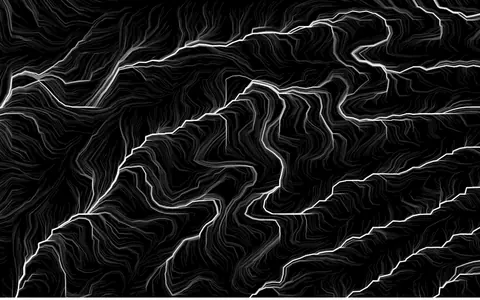
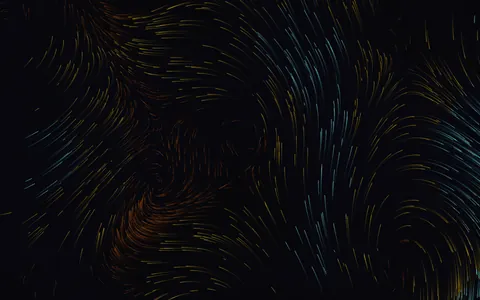
Rewrite the Experimental Math sketch from scratch
script.js was a reworked copy of thatsKevinJain/flowfields, which has
no licence. The new script keeps only the idea of particles tracing a
mathematical vector field and the MIT helpers microcan and vec-la.

It cycles through five fields of its own (sine/cosine interference, a
polar rose, orbiting point vortices, the curl of a wave stream function
and a swirled Clifford map), every 24 seconds or on a tap, click, Space
or arrow key. The field's unit square is fitted to the shorter side so
an upright phone sees the whole pattern, the canvas uses ArtEmbed.dpr()
and is rebuilt on resize, drawing stops while the tab is hidden, and
reduced motion gets a still. A small label names the current field
outside embed mode.

captured.png and the hub thumbnails are new screenshots of this version.

diff --git a/Art_Lab/Experimental_math/script.js b/Art_Lab/Experimental_math/script.js
@@ -1,0 +1,315 @@
+/**
+ * Experimental Math
+ *
+ * Particles follow a mathematical vector field and leave fading trails. The
+ * page cycles through five fields, each a small formula in x, y and time t:
+ *
+ *   Interference   two families of sine and cosine waves crossing
+ *   Rose           headings that turn k times faster than the polar angle
+ *   Vortex dance   five point vortices orbiting the centre (Biot-Savart)
+ *   Curl waves     the curl of a wave-shaped stream function (no divergence)
+ *   Clifford flow  the displacement of a Clifford attractor map, swirled
+ *
+ * The field's unit square is fitted to the shorter side of the window, so an
+ * upright phone sees the whole pattern and wide screens see it extend
+ * sideways. The canvas is drawn at the device pixel ratio (ArtEmbed.dpr(),
+ * capped inside an Art Lab card) and is rebuilt on resize.
+ *
+ * Tap, click, Space or the arrow keys change the field; otherwise it moves
+ * on by itself every 24 seconds. With reduced motion a still is drawn and
+ * the field only changes on request.
+ *
+ * Helpers: microcan (canvas) and vec-la (vectors) by Francis Stokes, MIT.
+ */
+(function () {
+  'use strict';
+
+  var embed = window.ArtEmbed || { on: false, dpr: function () { return window.devicePixelRatio || 1; } };
+  var reduceMotion = window.matchMedia && matchMedia('(prefers-reduced-motion: reduce)').matches;
+  var mc = window.microcan;
+  var V = window.vec;
+
+  var canvas = document.getElementById('main');
+  var ctx = canvas.getContext('2d', { alpha: false });
+  var label = document.getElementById('field-name');
+
+  var W = 0;
+  var H = 0;
+  var dpr = 1;
+  var cx = 0;
+  var cy = 0;
+  var unit = 1; // pixels per field unit
+
+  var BG = [9, 9, 11];
+  // slow, middle and fast particles
+  var INK = ['#b45309', '#facc15', '#7df9ff'];
+
+  var FIELD_SECONDS = 24;
+
+  // ---------------------------------------------------------------- fields
+  // Each field writes the velocity at (x, y) into out[0], out[1]. An optional
+  // `gain` lifts a field with small speeds into the same colour range.
+
+  var vortices = [];
+
+  var fields = [
+    {
+      name: 'Interference',
+      formula: 'v = ( sin 3y + cos(2.3 r − t),  cos 3x − sin(2.3 r + t) )',
+      fn: function (x, y, t, out) {
+        var r = Math.sqrt(x * x + y * y);
+        out[0] = Math.sin(3 * y + t * 0.3) + Math.cos(2.3 * r - t * 0.7);
+        out[1] = Math.cos(3 * x - t * 0.3) - Math.sin(2.3 * r + t * 0.5);
+      },
+    },
+    {
+      name: 'Rose',
+      formula: 'heading = 3·θ + sin(4r − t)',
+      fn: function (x, y, t, out) {
+        var r = Math.sqrt(x * x + y * y);
+        var th = Math.atan2(y, x);
+        var a = 3 * th + Math.sin(4 * r - t * 0.6) * 1.4;
+        var m = 0.4 + Math.abs(Math.sin(2.5 * r - t * 0.25));
+        out[0] = Math.cos(a) * m;
+        out[1] = Math.sin(a) * m;
+      },
+    },
+    {
+      name: 'Vortex dance',
+      gain: 2.6,
+      formula: 'v = Σ κᵢ (−dy, dx) / (|d|² + ε)',
+      before: function (t) {
+        // five vortices on a turning pentagon, alternating spin
+        vortices.length = 0;
+        for (var i = 0; i < 5; i++) {
+          var p = V.rotate((i / 5) * Math.PI * 2 + t * 0.12 * (i % 2 ? 1 : -1), [0.55 + 0.15 * Math.sin(t * 0.2 + i), 0]);
+          vortices.push([p[0], p[1], i % 2 ? 0.16 : -0.16]);
+        }
+      },
+      fn: function (x, y, t, out) {
+        var vx = -y * 0.15;
+        var vy = x * 0.15;
+        for (var i = 0; i < vortices.length; i++) {
+          var dx = x - vortices[i][0];
+          var dy = y - vortices[i][1];
+          var k = vortices[i][2] / (dx * dx + dy * dy + 0.02);
+          vx -= dy * k;
+          vy += dx * k;
+        }
+        out[0] = vx;
+        out[1] = vy;
+      },
+    },
+    {
+      name: 'Curl waves',
+      formula: 'ψ = sin(2x + t) cos 2y + ½ sin(3r − t),  v = (∂ψ/∂y, −∂ψ/∂x)',
+      fn: function (x, y, t, out) {
+        // analytic partial derivatives of the stream function
+        var r = Math.sqrt(x * x + y * y) + 1e-6;
+        var a = 2 * x + t * 0.4;
+        var w = 1.5 * Math.cos(3 * r - t * 0.5) / r;
+        var dpdx = 2 * Math.cos(a) * Math.cos(2 * y) + w * x;
+        var dpdy = -2 * Math.sin(a) * Math.sin(2 * y) + w * y;
+        out[0] = dpdy;
+        out[1] = -dpdx;
+      },
+    },
+    {
+      name: 'Clifford flow',
+      formula: 'f(p) = ( sin ay + c cos ax,  sin bx + d cos by ),  v = R·(f(p)/2 − p)',
+      before: function (t) {
+        this.a = -1.7 + 0.25 * Math.sin(t * 0.05);
+        this.b = 1.8 + 0.2 * Math.cos(t * 0.04);
+        this.c = -1.9;
+        this.d = -0.4 + 0.3 * Math.sin(t * 0.03);
+      },
+      fn: function (x, y, t, out) {
+        var X = x * 1.6;
+        var Y = y * 1.6;
+        var fx = (Math.sin(this.a * Y) + this.c * Math.cos(this.a * X)) * 0.5 - X;
+        var fy = (Math.sin(this.b * X) + this.d * Math.cos(this.b * Y)) * 0.5 - Y;
+        // turn the pull by 60 degrees so particles orbit instead of settling
+        out[0] = fx * 0.5 - fy * 0.866;
+        out[1] = fx * 0.866 + fy * 0.5;
+      },
+    },
+  ];
+
+  // ---------------------------------------------------------------- particles
+
+  var MAX = 4500;
+  var px = new Float32Array(MAX);
+  var py = new Float32Array(MAX);
+  var life = new Float32Array(MAX);
+  var n = 0;
+
+  function spawn(i) {
+    px[i] = Math.random() * W;
+    py[i] = Math.random() * H;
+    life[i] = 90 + Math.random() * 300;
+  }
+
+  // ---------------------------------------------------------------- canvas
+
+  function clear() {
+    ctx.globalAlpha = 1;
+    mc.background(ctx, BG[0], BG[1], BG[2], 1, W, H);
+  }
+
+  function fit() {
+    W = Math.max(1, window.innerWidth);
+    H = Math.max(1, window.innerHeight);
+    dpr = embed.dpr();
+    canvas.width = Math.round(W * dpr);
+    canvas.height = Math.round(H * dpr);
+    ctx.setTransform(dpr, 0, 0, dpr, 0, 0);
+    cx = W / 2;
+    cy = H / 2;
+    unit = (Math.min(W, H) / 2) * 0.92;
+    var want = Math.round((W * H) / (embed.on ? 520 : 380));
+    n = Math.max(600, Math.min(MAX, want));
+    for (var i = 0; i < n; i++) spawn(i);
+    clear();
+  }
+
+  // ---------------------------------------------------------------- simulation
+
+  var current = 0;
+  var t = 0;
+  var fieldTime = 0;
+  var fadeBoost = 0;
+  var out = [0, 0];
+
+  function step(k) {
+    var f = fields[current];
+    if (f.before) f.before.call(f, t);
+
+    ctx.globalAlpha = Math.min(1, (0.07 + fadeBoost) * k);
+    ctx.fillStyle = 'rgb(' + BG.join(',') + ')';
+    ctx.fillRect(0, 0, W, H);
+    if (fadeBoost > 0) fadeBoost = Math.max(0, fadeBoost - 0.01 * k);
+
+    var inv = 1 / unit;
+    var gain = f.gain || 1;
+    var base = unit * 0.0065 * k; // pixels per frame at unit speed
+    var paths = [new Path2D(), new Path2D(), new Path2D()];
+
+    for (var i = 0; i < n; i++) {
+      var x = px[i];
+      var y = py[i];
+      f.fn.call(f, (x - cx) * inv, (cy - y) * inv, t, out);
+      var vx = out[0];
+      var vy = -out[1];
+      var m = Math.sqrt(vx * vx + vy * vy) * gain;
+      if (m < 1e-6) {
+        spawn(i);
+        continue;
+      }
+      // direction from the field, length squashed so fast spots don't streak
+      var len = (base * (0.35 + Math.tanh(m)) * gain) / m;
+      var nx = x + vx * len;
+      var ny = y + vy * len;
+      var b = m < 0.6 ? 0 : m < 1.8 ? 1 : 2;
+      paths[b].moveTo(x, y);
+      paths[b].lineTo(nx, ny);
+
+      life[i] -= k;
+      if (life[i] <= 0 || nx < -2 || ny < -2 || nx > W + 2 || ny > H + 2) spawn(i);
+      else {
+        px[i] = nx;
+        py[i] = ny;
+      }
+    }
+
+    ctx.lineWidth = Math.max(0.8, Math.min(W, H) / 700);
+    ctx.lineCap = 'round';
+    var alpha = [0.5, 0.65, 0.8];
+    for (var j = 0; j < 3; j++) {
+      ctx.globalAlpha = alpha[j];
+      ctx.strokeStyle = INK[j];
+      ctx.stroke(paths[j]);
+    }
+    ctx.globalAlpha = 1;
+    t += 0.016 * k;
+  }
+
+  function showLabel() {
+    if (!label) return;
+    var f = fields[current];
+    label.querySelector('.name').textContent = f.name;
+    label.querySelector('.formula').textContent = f.formula;
+  }
+
+  function setField(i) {
+    current = (i + fields.length) % fields.length;
+    fieldTime = 0;
+    fadeBoost = 0.25;
+    for (var p = 0; p < n; p++) spawn(p);
+    showLabel();
+    if (!playing) still();
+  }
+
+  // A finished-looking frame without animation.
+  function still() {
+    clear();
+    fadeBoost = 0;
+    for (var s = 0; s < 260; s++) step(1);
+  }
+
+  // ---------------------------------------------------------------- loop
+
+  var playing = !reduceMotion;
+  var raf = 0;
+  var last = 0;
+
+  function tick(now) {
+    raf = 0;
+    if (document.hidden) return;
+    var k = last ? (now - last) / (1000 / 60) : 1;
+    last = now;
+    if (k > 4) k = 1;
+    step(k);
+    fieldTime += k / 60;
+    if (fieldTime > FIELD_SECONDS) setField(current + 1);
+    raf = requestAnimationFrame(tick);
+  }
+
+  function start() {
+    if (raf || !playing || document.hidden) return;
+    last = 0;
+    raf = requestAnimationFrame(tick);
+  }
+
+  document.addEventListener('visibilitychange', function () {
+    if (document.hidden) {
+      if (raf) cancelAnimationFrame(raf);
+      raf = 0;
+    } else start();
+  });
+
+  var resizeTimer = 0;
+  window.addEventListener('resize', function () {
+    clearTimeout(resizeTimer);
+    resizeTimer = setTimeout(function () {
+      fit();
+      if (!playing) still();
+    }, 120);
+  });
+
+  if (!embed.on) {
+    canvas.addEventListener('click', function () { setField(current + 1); });
+    document.addEventListener('keydown', function (e) {
+      if (e.ctrlKey || e.metaKey || e.altKey) return;
+      if (e.key === ' ' || e.key === 'ArrowRight' || e.key === 'Enter') setField(current + 1);
+      else if (e.key === 'ArrowLeft') setField(current - 1);
+      else return;
+      e.preventDefault();
+    });
+  }
+
+  fit();
+  current = Math.floor(Math.random() * fields.length);
+  showLabel();
+  if (playing) start();
+  else still();
+})();

diff --git a/Art_Lab/Experimental_math/index.html b/Art_Lab/Experimental_math/index.html
@@ -3,13 +3,15 @@
 <head>
   <meta charset="UTF-8">
   <script src="../js/embed.js"></script>
-  <meta name="viewport" content="width=device-width, initial-scale=1.0">
+  <meta name="viewport" content="width=device-width, initial-scale=1.0, viewport-fit=cover">
   <link rel="stylesheet" href="style.css">
   <link href="../../assets/icons/ornamental.svg" rel="icon" type="image/svg+xml" />
-  <title>Experimental</title>
+  <meta name="theme-color" content="#09090b">
+  <title>Experimental Math</title>
 </head>
 <body>
-  <canvas id="main"></canvas>
+  <canvas id="main" role="img" aria-label="Particles tracing a mathematical vector field. Tap or press Space for the next field."></canvas>
+  <p class="field-name" id="field-name" aria-live="polite"><span class="name"></span><span class="formula"></span></p>
   <script src="microcan.window.js"></script>
   <script src="vec.window.js"></script>
   <script src="script.js"></script>

diff --git a/Art_Lab/Experimental_math/style.css b/Art_Lab/Experimental_math/style.css
@@ -15,6 +15,32 @@ canvas#main {
     display: block;
     width: 100%;
     height: 100%;
-    background-color: black;
+    background-color: #09090b;
+    cursor: pointer;
+}
+
+.field-name {
+    position: fixed;
+    left: max(16px, env(safe-area-inset-left));
+    bottom: max(16px, env(safe-area-inset-bottom));
+    right: 16px;
+    display: flex;
+    flex-direction: column;
+    gap: 2px;
+    color: rgba(255, 255, 255, 0.75);
+    font: 500 12px/1.4 ui-monospace, 'SFMono-Regular', Menlo, Consolas, monospace;
+    pointer-events: none;
+    text-shadow: 0 1px 2px #000;
+}
+
+.field-name .name {
+    color: #facc15;
+    font: 700 13px/1.3 system-ui, -apple-system, 'Segoe UI', sans-serif;
+    letter-spacing: 0.14em;
+    text-transform: uppercase;
+}
+
+html.is-embed .field-name {
+    display: none;
 }
 
